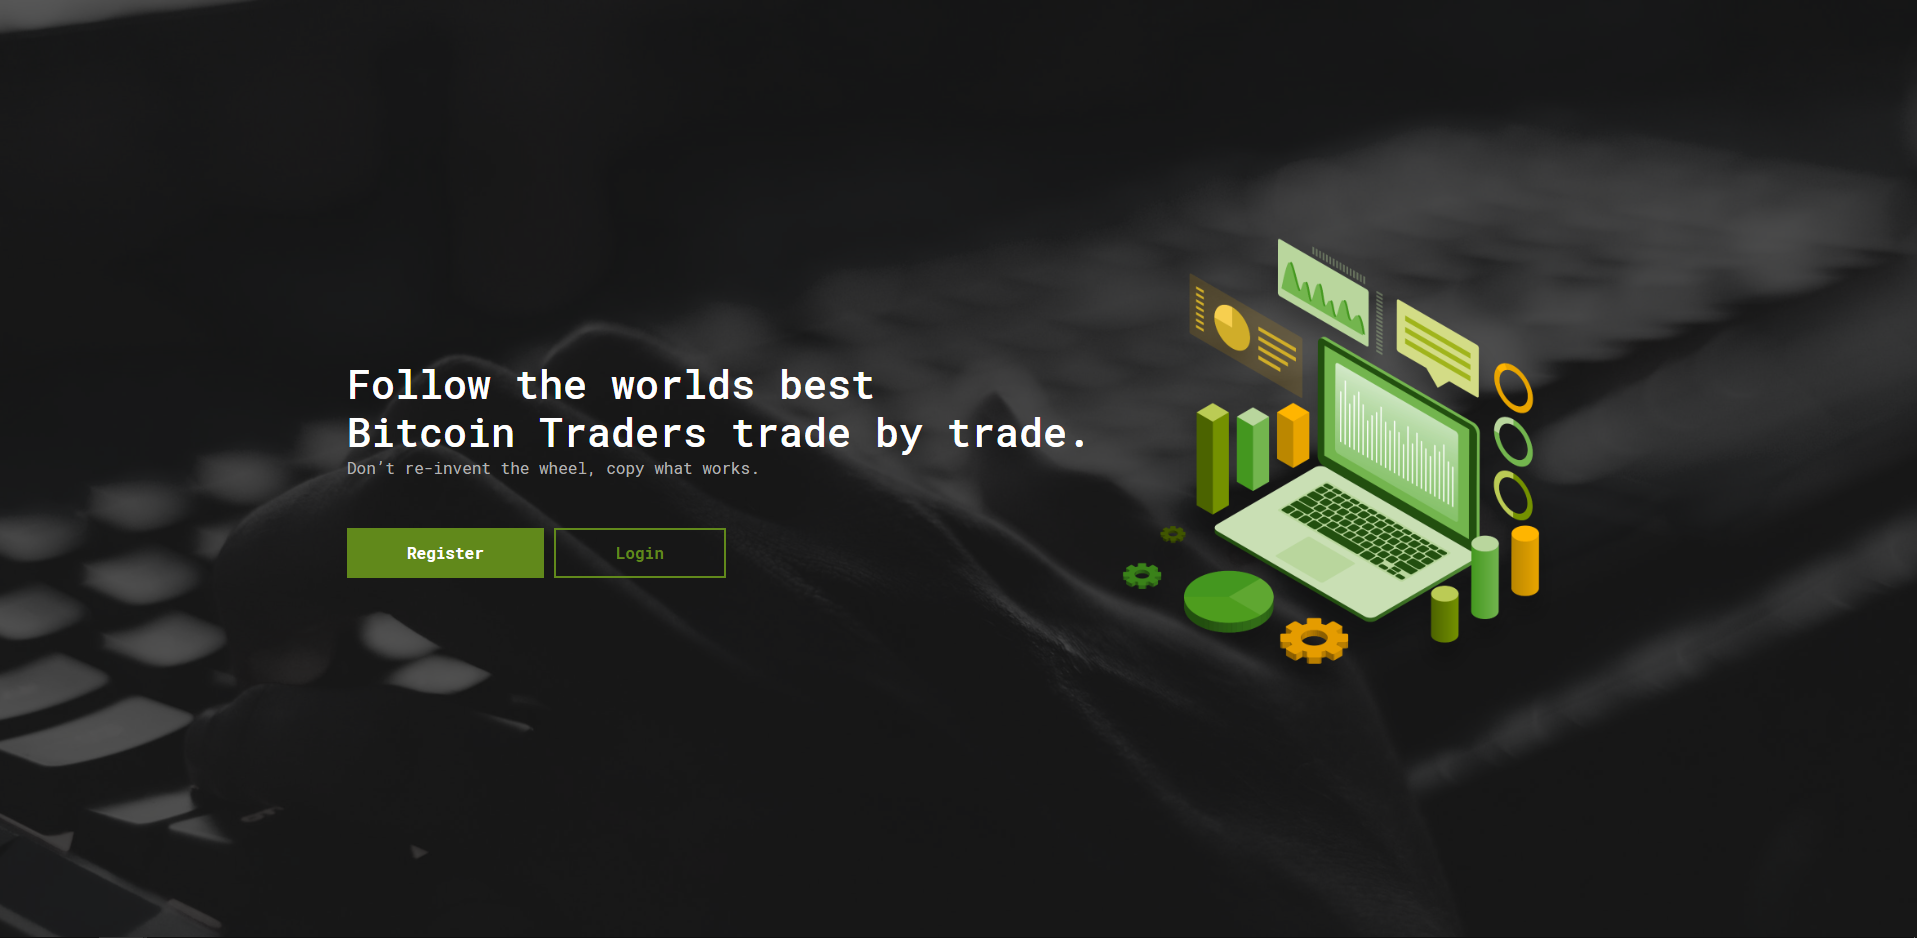
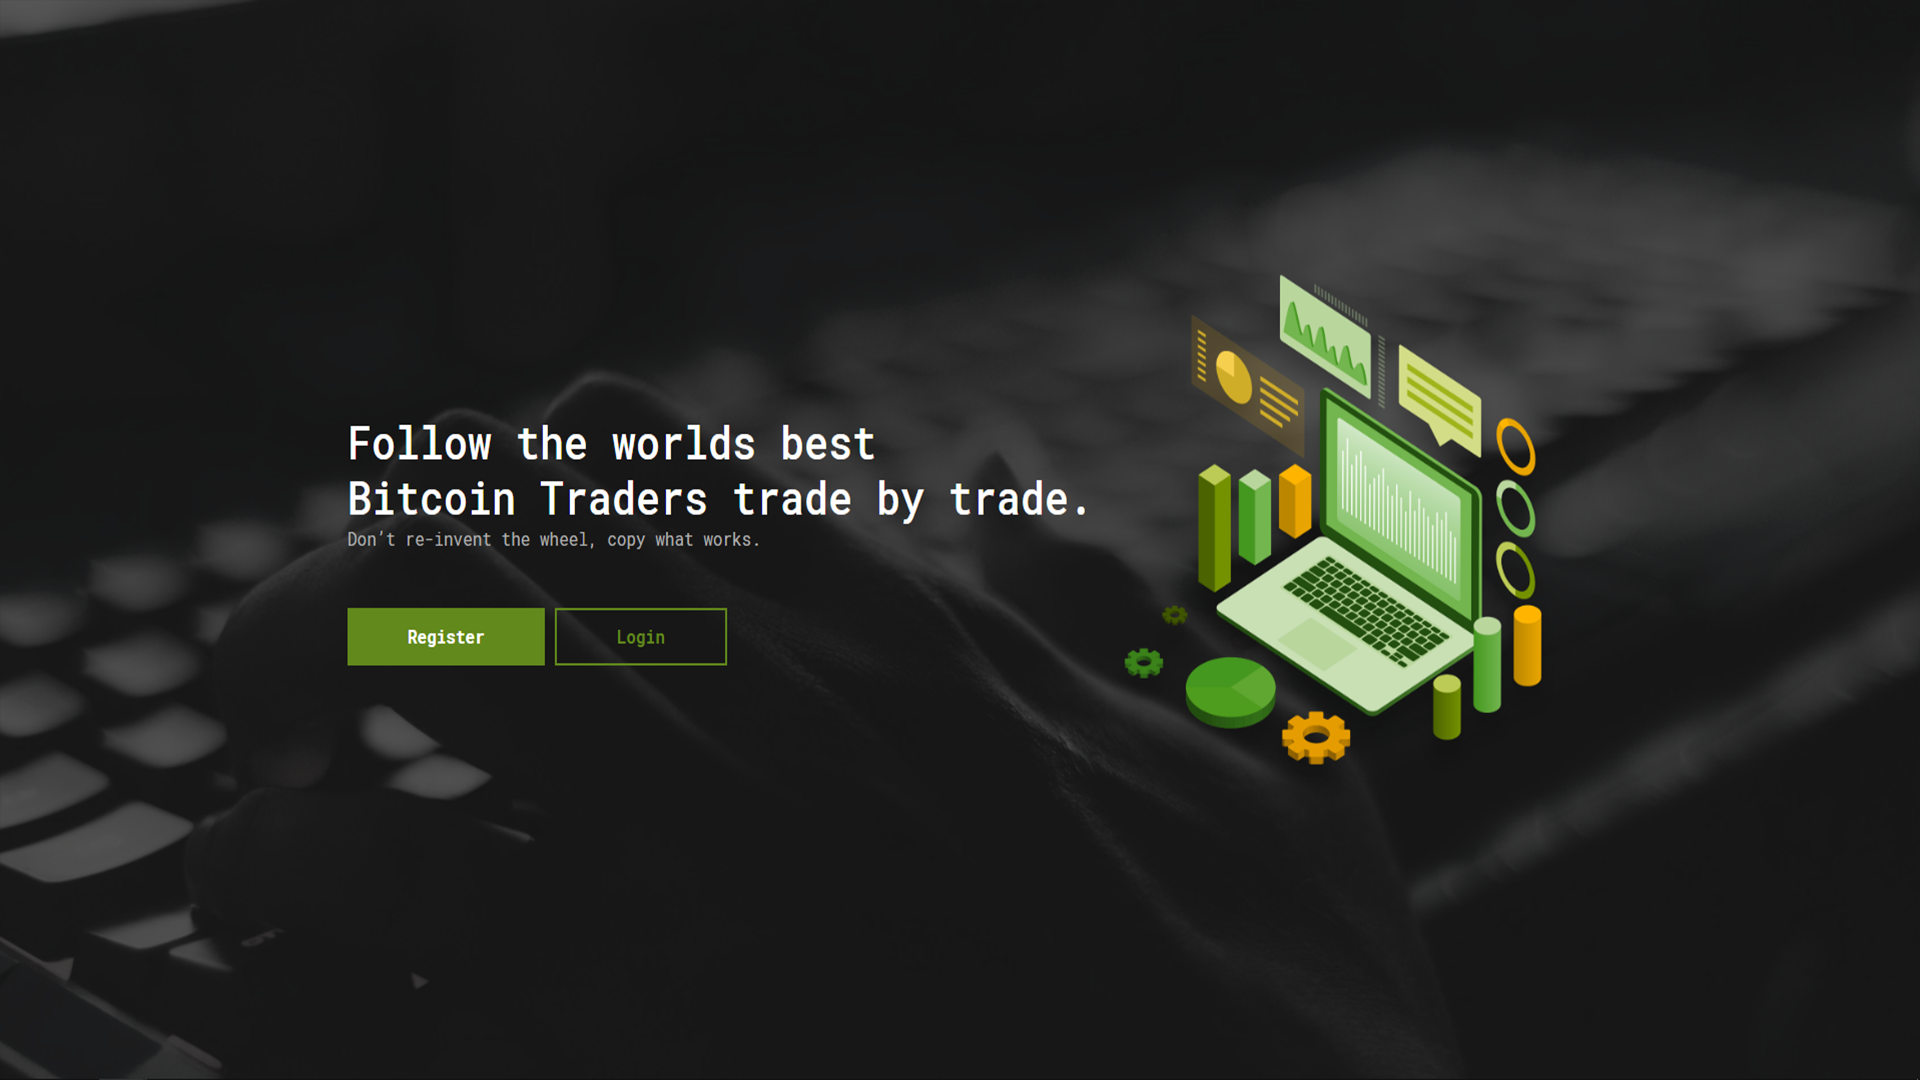
x

diff --git a/src/App.tsx b/src/App.tsx
@@ -1,34 +1,117 @@
-import React from "react";
+import React, { useRef } from "react";
 import "./assets/css/main.scss";
 import Navigation from "./components/Navigation";
 import { FontAwesomeIcon } from "@fortawesome/react-fontawesome";
-import { faJava, faJs, faNodeJs, faVuejs, faPython } from "@fortawesome/free-brands-svg-icons";
+import { faJs, faNodeJs, faVuejs, faPython, faReact, faYarn } from "@fortawesome/free-brands-svg-icons";
 
 const App = () => {
+  const projectsRef: any = useRef(null);
+  const contactRef: any = useRef(null);
+
+  const moveToProjects = () => {
+    if (projectsRef.current) {
+      projectsRef.current.scrollIntoView({
+        behavior: "smooth", 
+        block: "start"
+      })
+    }
+  }
+
+  const moveToContact = () => {
+    if (contactRef.current) {
+      contactRef.current.scrollIntoView({
+        behavior: "smooth", 
+        block: "start"
+      })
+    }
+  }
+
+  const opemEmail = () => {
+    window.location.href = `mailto:voxze.business@gmail.com`;
+  }
 
   return (
     <div className="container">
       
-      <Navigation />
+      <Navigation moveToProjects={moveToProjects} moveToContact={moveToContact}/>
 
       <div className="header">
       
         <div className="introduction">
+          <label>- Introduction</label>
           <h1>Hello! I'm Jeremiah</h1>
           <p>
             I'm a 20-year old, self-taught software engineer currently located in Philadelphia. 
             I currently have plans to receive a degree in computer science to further educate my self in this field. 
             I've been developing different software applications over the last 5 years. 
-            I am fluent in many technologies, I primarily write my frontend applications in React, server side stuff in NodeJS, while using PostgreSQL to handle data management.
+            I am fluent in many technologies, I primarily write my frontend applications in <em style={{color: "#00d8ff"}}>React</em>, server side stuff in <em style={{color: "#83cd29"}}>NodeJS</em>, while using <em style={{color: "#4a8abd"}}>PostgreSQL</em> to handle data management.
           </p>
         </div>
 
         <div className="expertise">
-          <div className="item"><FontAwesomeIcon icon={faNodeJs} /></div>
-          <div className="item"><FontAwesomeIcon icon={faVuejs} /></div>
-          <div className="item"><FontAwesomeIcon icon={faPython} /></div>
+          <label>- Technologies</label>
+          <div className="icons">
+            <div className="item" style={{ animationDuration: "4.1s" }}><FontAwesomeIcon className="icon" style={{color: "#83cd29"}} icon={faNodeJs} /></div>
+            <div className="item"><FontAwesomeIcon className="icon" style={{color: "#4a8abd"}} icon={faPython} /></div>
+            <div className="item" style={{ animationDuration: "4.3s" }}><FontAwesomeIcon className="icon" style={{color: "#3fb984"}} icon={faVuejs} /></div>
+            <div className="item"><FontAwesomeIcon className="icon" style={{color: "#00d8ff"}} icon={faReact} /></div>
+            <div className="item" style={{ animationDuration: "4.6s" }}><FontAwesomeIcon className="icon" style={{color: "#f7df1e"}} icon={faJs} /></div>
+            <div className="item"><FontAwesomeIcon className="icon" style={{color: "#2c8ebb"}} icon={faYarn} /></div>
+          </div>
+          <div className="info">
+            These are a few of the languages and libraries I use daily. 
+            I currently use these technologies for personal use and also business when doing work for clients. 
+            I still plan on learning many more technologies to further expand my knowledge in this field.
+          </div>
         </div>
 
+      </div>
+
+      <div className="projects" ref={projectsRef}>
+        <label style={{fontSize: 18}}>- Previous Projects</label>
+        <div className="grid">
+      
+          <div className="project" style={{backgroundImage: `url(${require("./assets/site1.png")})` }}></div>
+          <div className="project" style={{backgroundImage: `url(${require("./assets/site2.png")})` }}></div>
+          <div className="project" style={{backgroundImage: `url(${require("./assets/site3.png")})` }}></div>
+          <div className="project" style={{backgroundImage: `url(${require("./assets/site6.png")})` }}></div>
+          <div className="project" style={{backgroundImage: `url(${require("./assets/site5.png")})` }}></div>
+          <div className="project" style={{backgroundImage: `url(${require("./assets/site1.png")})` }}></div>
+          <div className="project" style={{backgroundImage: `url(${require("./assets/site2.png")})` }}></div>
+          <div className="project" style={{backgroundImage: `url(${require("./assets/site3.png")})` }}></div>
+          <div className="project" style={{backgroundImage: `url(${require("./assets/site6.png")})` }}></div>
+          <div className="project" style={{backgroundImage: `url(${require("./assets/site5.png")})` }}></div>
+          <div className="project" style={{backgroundImage: `url(${require("./assets/site1.png")})` }}></div>
+          <div className="project" style={{backgroundImage: `url(${require("./assets/site2.png")})` }}></div>
+          <div className="project" style={{backgroundImage: `url(${require("./assets/site3.png")})` }}></div>
+          <div className="project" style={{backgroundImage: `url(${require("./assets/site6.png")})` }}></div>
+          <div className="project" style={{backgroundImage: `url(${require("./assets/site5.png")})` }}></div>
+          <div className="project" style={{backgroundImage: `url(${require("./assets/site1.png")})` }}></div>
+          <div className="project" style={{backgroundImage: `url(${require("./assets/site2.png")})` }}></div>
+          <div className="project" style={{backgroundImage: `url(${require("./assets/site3.png")})` }}></div>
+          <div className="project" style={{backgroundImage: `url(${require("./assets/site6.png")})` }}></div>
+          <div className="project" style={{backgroundImage: `url(${require("./assets/site5.png")})` }}></div>
+          <div className="project" style={{backgroundImage: `url(${require("./assets/site1.png")})` }}></div>
+          <div className="project" style={{backgroundImage: `url(${require("./assets/site2.png")})` }}></div>
+          <div className="project" style={{backgroundImage: `url(${require("./assets/site3.png")})` }}></div>
+          <div className="project" style={{backgroundImage: `url(${require("./assets/site6.png")})` }}></div>
+          <div className="project" style={{backgroundImage: `url(${require("./assets/site5.png")})` }}></div>
+          <div className="project" style={{backgroundImage: `url(${require("./assets/site1.png")})` }}></div>
+          <div className="project" style={{backgroundImage: `url(${require("./assets/site2.png")})` }}></div>
+          <div className="project" style={{backgroundImage: `url(${require("./assets/site3.png")})` }}></div>
+        </div>
+      </div>
+
+      <div className="contact" ref={contactRef}>
+        <label style={{fontSize: 18, margin: 0}}>- Contact Me</label>
+        <div className="info">
+          <p>If you are looking for freelance services feel free to contact me via email *Serious Inquiries only*</p>
+          <button className="contact-btn" onClick={() => opemEmail()}>Contact</button>
+        </div>
+      </div>
+
+      <div className="footer">
+       Copyright © 2000-2020 - All Rights Reserved.
       </div>
 
     </div>

diff --git a/src/assets/css/main.scss b/src/assets/css/main.scss
@@ -1,4 +1,5 @@
 $backgroundColor: #2d2e32;
+*:focus {outline:0;}
 
 body, html, #root {
   padding: 0;
@@ -8,14 +9,122 @@ body, html, #root {
   font-family: -apple-system, BlinkMacSystemFont, 'Segoe UI', 'Roboto';
 }
 
+label {
+  color: rgba(255, 255, 255, 0.7);
+  margin-bottom: 20rem;
+}
+
+.footer {
+  display: flex;
+  justify-content: center;
+  background-color: #25262a;
+  padding: 1rem 0;
+  color: rgba(255, 255, 255, 0.7);
+  font-size: 12px;
+}
+
+.contact {
+  padding: 2.5rem 15rem;
+  height: 200px;
+  display: flex;
+  flex-direction: column;
+  justify-content: center;
+
+  .info {
+    display: flex;
+    align-items: center;
+    font-size: 20px;
+    font-weight: 400;
+    color: rgba(255, 255, 255, 0.8);
+
+    font-style: italic;
+  }
+
+  .contact-btn {
+    background: #529ad1;
+    border: none;
+    color: #fff;
+    width: 120px;
+    height: 45px;
+    border-radius: 6px;
+    margin-left: 2rem;
+    transition: ease-in 150ms;
+    
+    &:hover {
+      transform: scale(1.03);
+      cursor: pointer;
+    }
+  }
+}
+
+.projects {
+  padding: 2.5rem 15rem;
+  background: #25262a;
+
+  .grid {
+    display: flex;
+    flex-wrap: wrap;
+  }
+  .project {
+    height: 200px;
+    width: 300px;
+    margin-right: 1rem;
+    background-position: bottom;
+    background-repeat: no-repeat;
+    background-size: contain;
+  }
+}
+
 .header {
   display: flex;
-  height: 500px;
+  height: 850px;
   align-items: center;
   padding: 2.5rem 15rem;
+  justify-content: space-between;
+
+  .expertise {
+    width: 45%;
+    height: 50%;
+    
+    .icons {
+      display: flex;
+      margin-top: 2rem;
+    }
+
+    .info {
+      color: rgba(255, 255, 255, 0.7);
+      margin-top: 5px;
+      font-size: 20px;
+      margin-top: 1.5rem;
+    }
+
+    .item {
+      display: flex;
+      height: 80px;
+      width: 80px;
+      border-radius: 50%;
+      justify-content: center;
+      align-items: center;
+      background-color: #25262a;
+      margin: 0 0.5rem;
+      animation: float 6s ease-in-out infinite;
+      box-shadow: 0 5px 15px 0px rgba(0,0,0,0.3);
+
+      &:hover {
+        cursor: pointer;
+      }
+
+      .icon {
+        font-size: 30px;
+      }
+
+    }
+  }
 
   .introduction {
-    width: 50%;
+    width: 45%;
+    height: 50%;
+    animation: fadeIn 1s ease-in forwards;
   
     h1, p {
       padding: 0;
@@ -25,16 +134,18 @@ body, html, #root {
     h1 {
       color: #fff;
       font-size: 30px;
+      margin-top: 2rem;
     }
 
     p {
-      color: #fff;
-      opacity: 0.7;
+      color: rgba(255, 255, 255, 0.7);
+      // opacity: 0.7;
       margin-top: 5px;
-      // background-color: #25262a;
-      // border-radius: 6px;
-      // padding: 1rem;
       font-size: 20px;
+
+      span {
+        opacity: 1;
+      }
     }
   }
 }
@@ -43,8 +154,12 @@ body, html, #root {
   display: flex;
   padding: 0 15rem;
   margin-top: 3.5rem;
+  padding: 1rem 15rem;
   justify-content: space-between;
-
+  position: sticky;
+  top: 0;
+  background-color: $backgroundColor;
+  z-index: 2;
   .left-nav {
     display: flex;
   }
@@ -114,4 +229,32 @@ body, html, #root {
     }
   }
   
+}
+
+@keyframes float {
+	0% {
+		box-shadow: 0 5px 15px 0px rgba(0,0,0,0.3);
+		transform: translatey(0px);
+	}
+	50% {
+		box-shadow: 0 25px 15px 0px rgba(0,0,0,0.1);
+		transform: translatey(-5px);
+	}
+	100% {
+		box-shadow: 0 5px 15px 0px rgba(0,0,0,0.3);
+		transform: translatey(0px);
+	}
+}
+
+@keyframes fadeIn {
+  from {
+    // transform: translatex(-200%);
+    opacity: 0;
+  }
+
+  to {
+    // transform: translatex(0%);
+    opacity: 1;
+
+  }
 }

diff --git a/src/components/Navigation/index.tsx b/src/components/Navigation/index.tsx
@@ -2,15 +2,19 @@ import React from "react";
 import { FontAwesomeIcon } from "@fortawesome/react-fontawesome"
 import { faGithub, faTwitter } from "@fortawesome/free-brands-svg-icons";
 
-const Navigation = () => {
+interface NavigationPropsInterface {
+  moveToProjects: () => void;
+  moveToContact: () => void;
+}
+
+const Navigation = (props: NavigationPropsInterface) => {
   return (
     <div className="navigation">
       <div className="left-nav">
         <div className="logo"><span>Jeremiah</span> Flores</div>
         <ul className="navigation-links">
-          <li className="navigation-item active">Projects</li>
-          <li className="navigation-item">Reviews</li>
-          <li className="navigation-item">Hire</li>
+          <li className="navigation-item" onClick={() => props.moveToProjects()}>Projects</li>
+          <li className="navigation-item" onClick={() => props.moveToContact()}>Contact</li>
         </ul>
       </div>
       <ul className="navigation-social">
